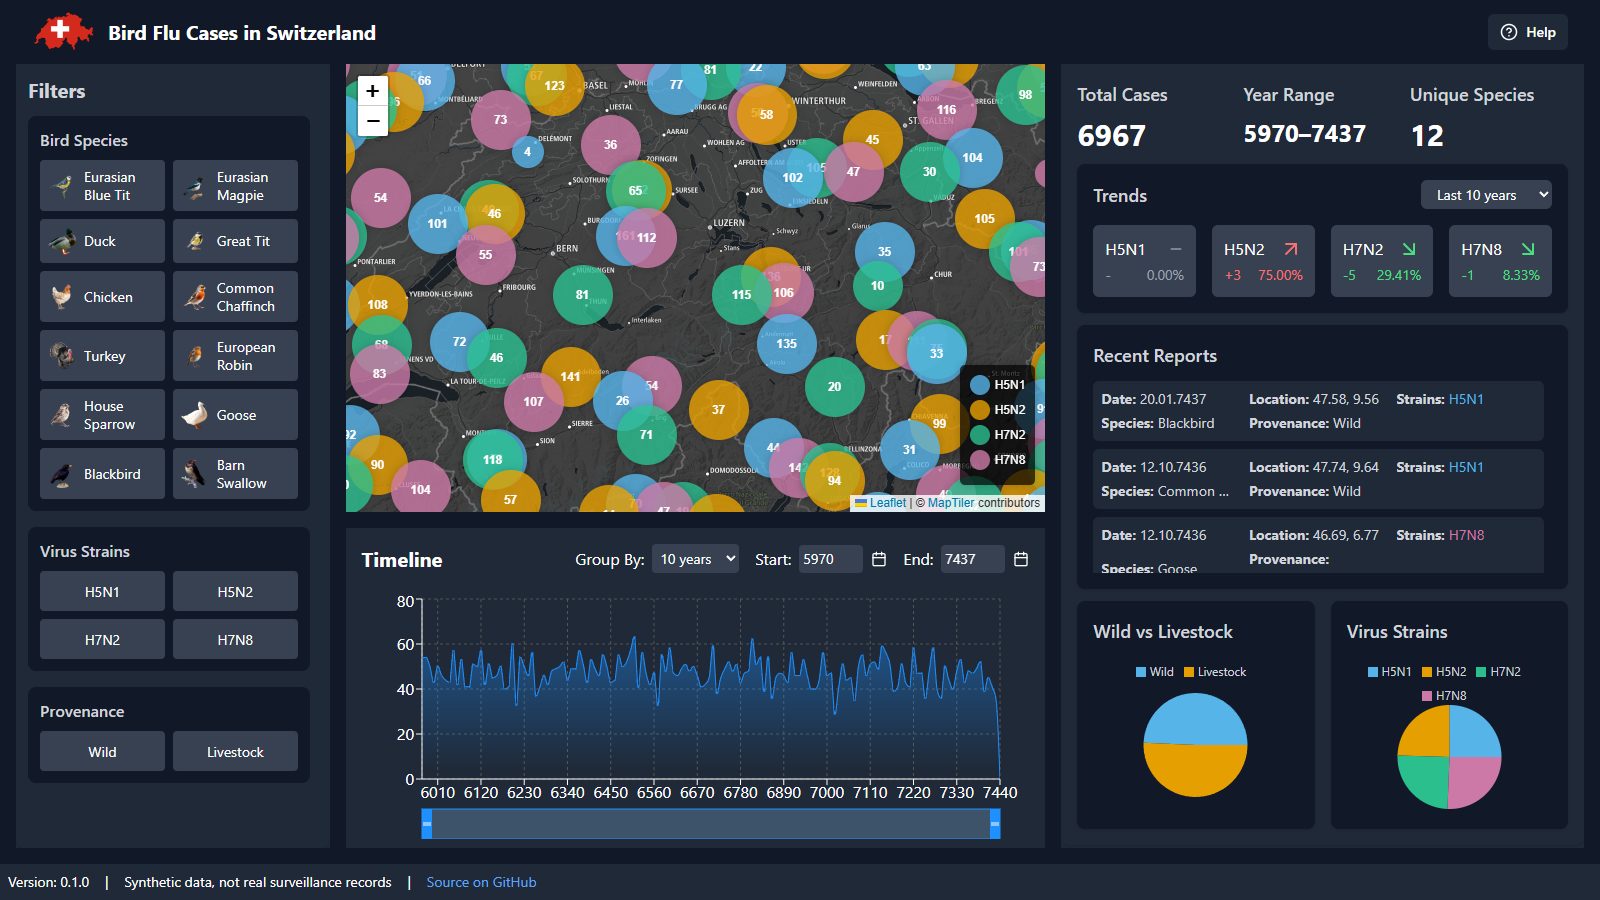
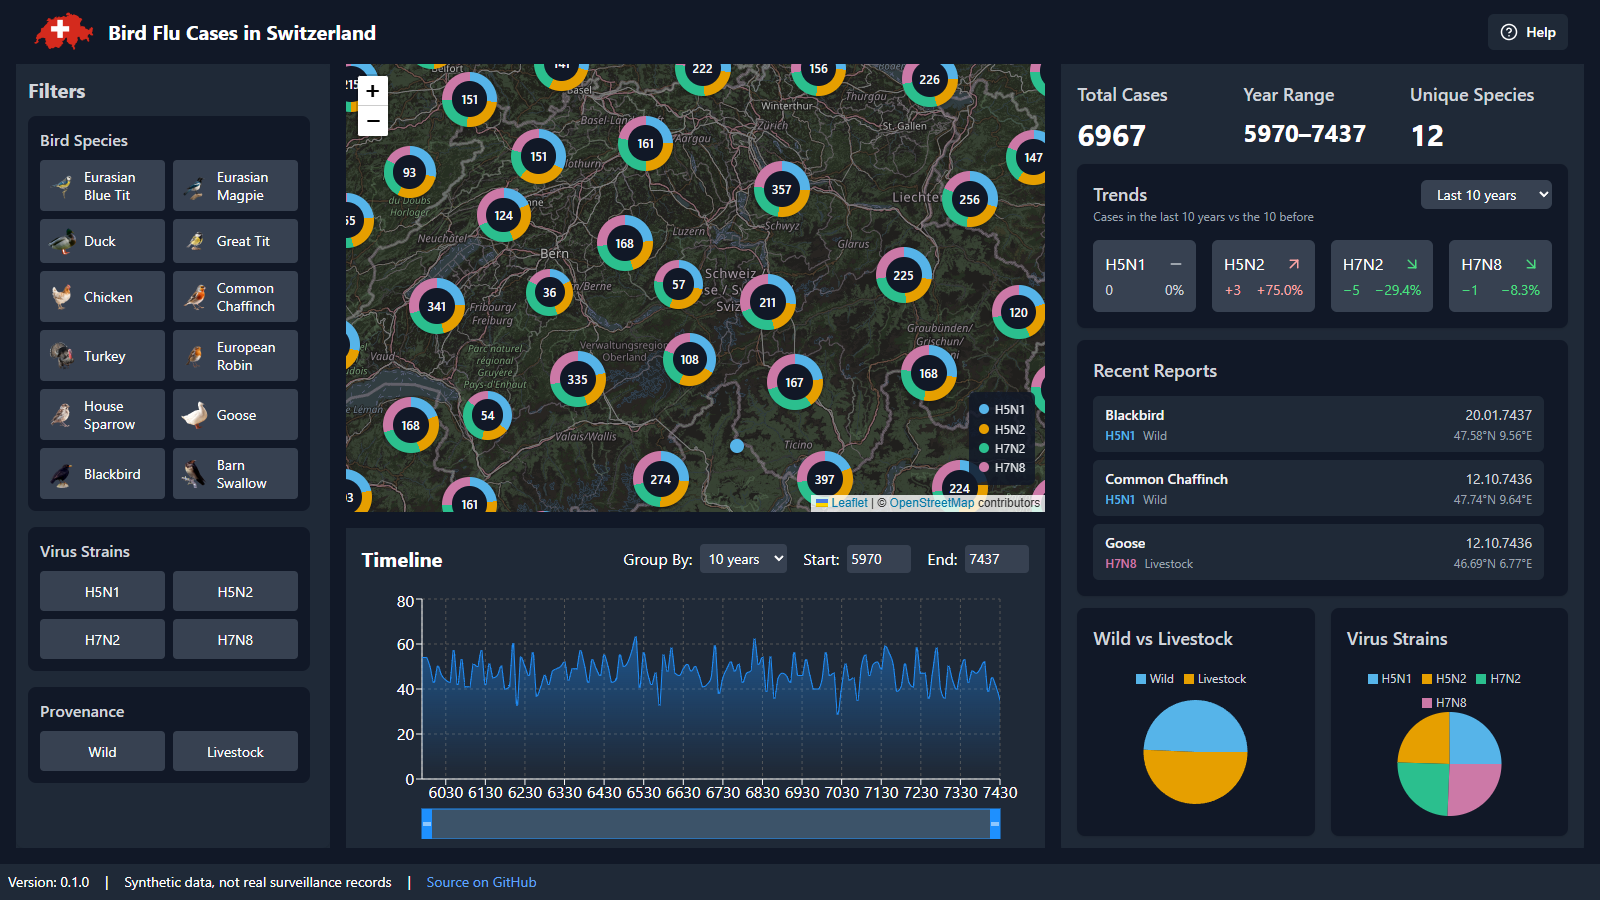
Explain design decisions and changes since the 2024 submission
- README: design decisions with their trade-offs, known limitations,
  and what changed since the original submission (commit 61c96c7)
- Map and setup notes updated for the key-free OpenStreetMap tiles
- Refreshed screenshots

diff --git a/README.md b/README.md
@@ -14,7 +14,7 @@ I built it in September 2024 as the technical assessment for a position at ETH Z
 
 ## What it does
 
-- **Map**: shows every report as a point on a MapTiler base map, clustered by location and coloured by virus strain (H5N1, H5N2, H7N2, H7N8).
+- **Map**: shows the reports on an OpenStreetMap base map (darkened with a CSS filter), clustered by location. Each bubble's ring is split by virus strain (H5N1, H5N2, H7N2, H7N8).
 - **Filters**: narrow the data by 12 bird species, 4 strains and provenance (wild or livestock). The map, timeline and summary update together.
 - **Timeline**: case counts over time, grouped into 10, 50, 100 or 500 year buckets. Drag the brush or pick start and end years to set the date range for the rest of the dashboard.
 - **Summary**: total cases, year range, unique species, strain trends over a chosen window, the 10 most recent reports, and pie charts of provenance and strain.
@@ -25,20 +25,46 @@ I built it in September 2024 as the technical assessment for a position at ETH Z
 
 React 18 and TypeScript built with Vite (originally Create React App), Tailwind CSS, Leaflet with react-leaflet and marker clustering, Recharts for the timeline and pie charts, and PapaParse for reading the CSV. Tests run on Vitest.
 
+## Design decisions
+
+**Data stays in the browser.** The dataset is a 776 KB CSV of 10,000 rows, served as a static file and parsed once with PapaParse. At that size, filtering in memory is instant, so there is no backend to run or deploy. A much larger dataset would need parsing in a web worker, or server-side filtering and pre-aggregated tiles.
+
+**One filter state, owned by the dashboard.** `Dashboard` holds a single `filters` object (date range, species, strains, provenance) and derives everything else with `useMemo`. Child components get data and callbacks, not their own copies of the filters. The tree is small, so there is no global store. The timeline gets data filtered by everything except the date range, so its shape doesn't collapse when you narrow the range with it.
+
+**Derived values, not syncing effects.** The timeline's start and end years are clamped to the visible range during render rather than corrected in `useEffect`, which avoids extra renders and out-of-sync state. ESLint's React hooks rules run in CI to keep it that way.
+
+**Map: Leaflet with one cluster layer.** Leaflet and Leaflet.markercluster handle about 7,000 points comfortably and are mature, well-documented libraries. All strains share one cluster layer, and each bubble's ring is split by strain share. An earlier version used one layer per strain, which stacked up to four bubbles on the same spot. The base map is OpenStreetMap, darkened with a CSS filter, so no API key is needed. The trade-off is a busier map than a purpose-made dark style, and OpenStreetMap's tile servers are only meant for light traffic.
+
+**One chart library.** Recharts draws both the timeline and the pie charts. It is built from React components, and its `Brush` gives range selection on the timeline without extra code.
+
+**Colour and accessibility.** Strains use the Okabe-Ito palette, which stays distinguishable with common colour blindness. Text colours are chosen for at least 4.5:1 contrast on the dark panels. Filter toggles expose `aria-pressed`, the help dialog is a native `<dialog>` (Esc to close, focus handled by the browser), and form controls have labels.
+
+**Testing and CI.** Vitest and Testing Library cover the data logic (date parsing, filtering) and the main components (filter toggles, Clear filters, the empty state, totals). GitHub Actions runs lint, tests and a production build on every pull request; `main` only accepts changes through a passing PR.
+
+## Known limitations
+
+- Desktop-first: the three-column layout is not designed for phones.
+- The dataset is synthetic, including its far-future years.
+
+## Changes since the original submission
+
+The assessment version is commit [`61c96c7`](https://github.com/raullopesalves/geodata-dashboard-ui/tree/61c96c7) (16 September 2024). I later revisited the project using the feedback I received:
+
+- Replaced the failing default test with unit and component tests, and added CI.
+- Fixed the production build and moved from Create React App, which is deprecated, to Vite.
+- Removed non-functional UI (language picker, placeholder contact link, debug button) and unused dependencies.
+- Reworked state handling in the timeline and dashboard, guided by ESLint's React hooks rules.
+- Redesigned the map clusters, trend cards and recent reports; fixed a misleading drop at the end of the timeline.
+- Added a live demo on GitHub Pages.
+
 ## Running it locally
 
-You need Node.js 22 or later and a free [MapTiler](https://www.maptiler.com/) API key for the base map.
+You need Node.js 22 or later. The base map uses OpenStreetMap tiles, so no API key is needed.
 
 ```bash
 git clone https://github.com/raullopesalves/geodata-dashboard-ui.git
 cd geodata-dashboard-ui
 npm install
-```
-
-Create a `.env` file in the project root:
-
-```
-VITE_MAPTILER_API_KEY=your_key_here
 ```
 
 Then:
